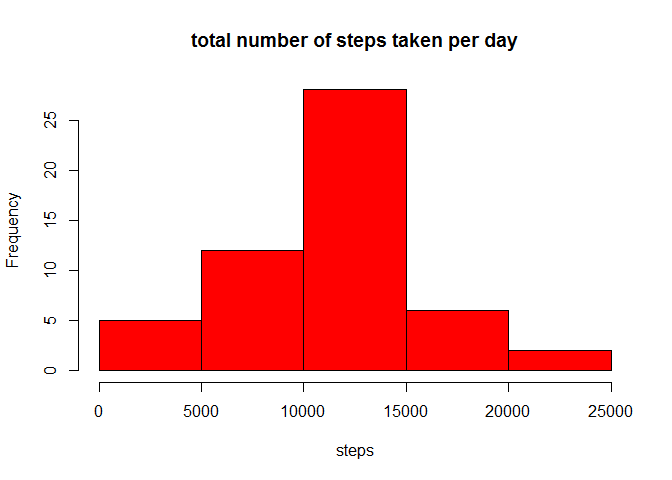
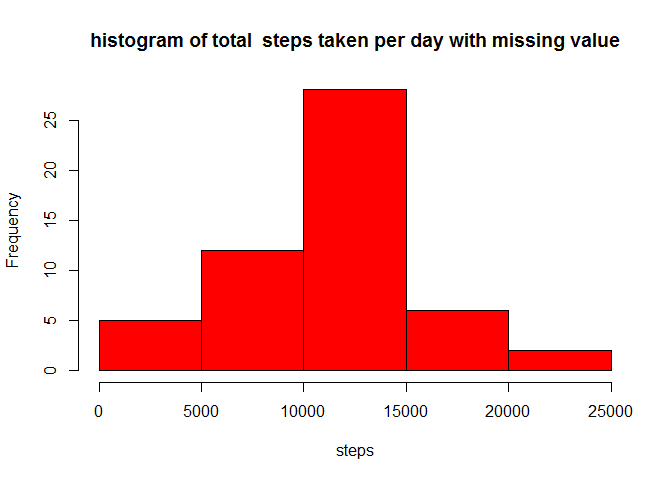
add comment to r code of  Rmd file

Changed region(s): [[0.125, 0.0625, 0.9375, 0.125]]

diff --git a/PA1_template.html b/PA1_template.html
@@ -68,7 +68,7 @@ img {
 <h2>Loading and preprocessing the data</h2>
 <div id="show-any-code-that-is-needed-to-load-the-data-i.e.read.csv" class="section level3">
 <h3>- Show any code that is needed to Load the data (i.e. read.csv())</h3>
-<pre class="r"><code>a=read.csv(&quot;C:\\Users\\user\\Documents\\activity.csv&quot;)</code></pre>
+<pre class="r"><code>a=read.csv(&quot;~/activity.csv&quot;)</code></pre>
 </div>
 </div>
 <div id="what-is-mean-total-number-of-steps-taken-per-day" class="section level2">
@@ -146,8 +146,8 @@ b</code></pre>
 <h2>What is the average daily activity pattern?</h2>
 <div id="make-a-histogram-of-the-total-number-of-steps-taken-each-day" class="section level3">
 <h3>2. Make a histogram of the total number of steps taken each day</h3>
-<pre class="r"><code>hist(b$steps,col=&quot;red&quot;,xlab=&quot;steps&quot;,main=&quot;total number of steps taken per day&quot;)</code></pre>
[1 lines of base64/hex data omitted]
+<pre class="r"><code>hist(b$steps,col=&quot;red&quot;,xlab=&quot;steps&quot;,main=&quot;histogram of total  steps taken per day with missing value&quot;)</code></pre>
[1 lines of base64/hex data omitted]
 </div>
 <div id="calculate-and-report-the-mean-and-median-of-the-total-number-of-steps-taken-per-day" class="section level3">
 <h3>3. Calculate and report the mean and median of the total number of steps taken per day</h3>
@@ -170,14 +170,16 @@ day_median=median(b$steps,na.rm=T)</code></pre>
 <pre class="r"><code>library(reshape2)</code></pre>
 <pre><code>## Warning: package 'reshape2' was built under R version 3.1.2</code></pre>
 <pre class="r"><code>md=melt(a,id.vars=c(&quot;date&quot;,&quot;interval&quot;),na.rm=T)
+## create new dataframe with 2 column -interval and mean steps
 new=dcast(md,interval~variable,mean)
+## make the plot
 plot(new,type=&quot;l&quot;,col=&quot;red&quot;,main=&quot; average steps of 5-minute interval&quot;)</code></pre>
[1 lines of base64/hex data omitted]
 </div>
 </div>
 <div id="imputing-missing-values" class="section level2">
 <h2>Imputing missing values</h2>
-<pre class="r"><code>## nof subset of record contain NA
+<pre class="r"><code>## dataframe nof subset of record contain missing value
 nof=a[is.na(a$steps)==T,]
 number=nrow(nof) ## total records that contain NA</code></pre>
 <div id="the-total-number-of-missing-values-in-the-dataset-is-2304" class="section level3">
@@ -186,9 +188,12 @@ number=nrow(nof) ## total records that contain NA</code></pre>
 <div id="devise-a-strategy-for-filling-in-all-of-the-missing-values-in-the-dataset-using-the-meanmedian-for-that-day-or-the-mean-for-that-5-minute-interval-etc." class="section level3">
 <h3>2. Devise a strategy for filling in all of the missing values in the dataset using the mean/median for that day, or the mean for that 5-minute interval, etc.</h3>
 </div>
+<div id="missing-value-will-filling-with-mean-of-that-5-minute-interval" class="section level3">
+<h3><strong>Missing value, will filling with mean of that 5-minute interval</strong></h3>
+</div>
 <div id="create-a-new-dataset-that-is-equal-to-the-original-dataset-but-with-the-missing-data-filled-in." class="section level3">
 <h3>3. Create a new dataset that is equal to the original dataset but with the missing data filled in.</h3>
-<pre class="r"><code>##let dataframe a add a  interval average steps column
+<pre class="r"><code>##let dataframe a add a 5-minute interval average steps column
 library(dplyr)</code></pre>
 <pre><code>## Warning: package 'dplyr' was built under R version 3.1.3</code></pre>
 <pre><code>## 
@@ -203,35 +208,46 @@ library(dplyr)</code></pre>
 ##     intersect, setdiff, setequal, union</code></pre>
 <pre class="r"><code>a=tbl_df(a)
 new=tbl_df(new)
-extstep=new
+extstep=new 
 for(i in 1:60){extstep=rbind(extstep,new)}
 names(extstep)=c(&quot;interval&quot;,&quot;mean&quot;)
-exta=cbind(a,extstep$mean)
+exta=cbind(a,extstep$mean)## create a dataframe exta=original original dataframe + mean interval column
 names(exta)=c(&quot;steps&quot;,&quot;date&quot;,&quot;interval&quot;,&quot;mstep&quot;)
+## extab- subset of missing value records
 extab=filter(exta,is.na(steps))
+##replace missing steps with mean
 extab=mutate(extab,steps=mstep)
 extab=select(extab,steps,date,interval)
+## isa - subset of complete records
 isa=filter(a,!is.na(steps))
+##rbind two subset to complete the whole data
 data=arrange(rbind(isa,extab),date,interval)
+##show the results of replacement
 head(data)</code></pre>
 </div>
 <div id="make-a-histogram-of-the-total-number-of-steps-taken-each-day-and-calculate-and-report-the-mean-and-median-total-number-of-steps-taken-per-day." class="section level3">
 <h3>4. Make a histogram of the total number of steps taken each day and Calculate and report the mean and median total number of steps taken per day.</h3>
-<pre class="r"><code>data_mean=group_by(data,date)
+<pre class="r"><code>##grouping data by date
+data_mean=group_by(data,date)
+##sum up steps by date
 sumsteps=summarise(data_mean,sum(steps))
 names(sumsteps)=c(&quot;date&quot;,&quot;total&quot;)
-hist(sumsteps$total)</code></pre>
[1 lines of base64/hex data omitted]
-<pre class="r"><code>filled_mean=mean(sumsteps$total)
-filled_mean=format(filled_mean,scipen=100)
+##plot histgram
+hist(sumsteps$total,main = &quot;histogram of Total steps taken per day filling missing value with interval mean&quot;,xlab = &quot;steps&quot;)</code></pre>
[1 lines of base64/hex data omitted]
+<pre class="r"><code>##calculate with mean and median 
+filled_mean=mean(sumsteps$total)
+## formatting the mean and median not to show as scientific format
+
+filled_mean=format(filled_mean,scipen=100,digit=5)
 filled_median=median(sumsteps$total)
-filled_median=format(filled_median,scipen=100)</code></pre>
+filled_median=format(filled_median,scipen=100,digits = 5)</code></pre>
 </div>
-<div id="the-mean-total-number-of-steps-taken-per-day-is-10766.19" class="section level3">
-<h3>the mean total number of steps taken per day is 10766.19</h3>
+<div id="the-mean-total-number-of-steps-taken-per-day-is-10766" class="section level3">
+<h3>the mean total number of steps taken per day is 10766</h3>
 </div>
-<div id="the-median-total-number-of-steps-taken-per-day-is-10766.19" class="section level3">
-<h3>the median total number of steps taken per day is 10766.19</h3>
+<div id="the-median-total-number-of-steps-taken-per-day-is-10766" class="section level3">
+<h3>the median total number of steps taken per day is 10766</h3>
 </div>
 </div>
 <div id="are-there-differences-in-activity-patterns-between-weekdays-and-weekends" class="section level2">

diff --git a/PA1_template.md b/PA1_template.md
@@ -7,7 +7,7 @@
 
 
 ```r
-a=read.csv("C:\\Users\\user\\Documents\\activity.csv")
+a=read.csv("~/activity.csv")
 ```
 
 
@@ -91,7 +91,7 @@ b
 ### 2. Make a histogram of the total number of steps taken each day
 
 ```r
-hist(b$steps,col="red",xlab="steps",main="total number of steps taken per day")
+hist(b$steps,col="red",xlab="steps",main="histogram of total  steps taken per day with missing value")
 ```
 
 ![](PA1_template_files/figure-html/unnamed-chunk-3-1.png) 
@@ -123,7 +123,9 @@ library(reshape2)
 
 ```r
 md=melt(a,id.vars=c("date","interval"),na.rm=T)
+## create new dataframe with 2 column -interval and mean steps
 new=dcast(md,interval~variable,mean)
+## make the plot
 plot(new,type="l",col="red",main=" average steps of 5-minute interval")
 ```
 
@@ -135,7 +137,7 @@ plot(new,type="l",col="red",main=" average steps of 5-minute interval")
 
 
 ```r
-## nof subset of record contain NA
+## dataframe nof subset of record contain missing value
 nof=a[is.na(a$steps)==T,]
 number=nrow(nof) ## total records that contain NA
 ```
@@ -143,10 +145,13 @@ number=nrow(nof) ## total records that contain NA
 ### 1.The total number of missing values in the dataset is 2304 
 
 ### 2. Devise a strategy for filling in all of the missing values in the dataset using the mean/median for that day, or the mean for that 5-minute interval, etc.
+
+### **Missing value, will filling with  mean of that 5-minute interval**
+
 ### 3. Create a new dataset that is equal to the original dataset but with the missing data filled in.
 
 ```r
-##let dataframe a add a  interval average steps column
+##let dataframe a add a 5-minute interval average steps column
 library(dplyr)
 ```
 
@@ -170,39 +175,50 @@ library(dplyr)
 ```r
 a=tbl_df(a)
 new=tbl_df(new)
-extstep=new
+extstep=new 
 for(i in 1:60){extstep=rbind(extstep,new)}
 names(extstep)=c("interval","mean")
-exta=cbind(a,extstep$mean)
+exta=cbind(a,extstep$mean)## create a dataframe exta=original original dataframe + mean interval column
 names(exta)=c("steps","date","interval","mstep")
+## extab- subset of missing value records
 extab=filter(exta,is.na(steps))
+##replace missing steps with mean
 extab=mutate(extab,steps=mstep)
 extab=select(extab,steps,date,interval)
+## isa - subset of complete records
 isa=filter(a,!is.na(steps))
+##rbind two subset to complete the whole data
 data=arrange(rbind(isa,extab),date,interval)
+##show the results of replacement
 head(data)
 ```
 ### 4. Make a histogram of the total number of steps taken each day and Calculate and report the mean and median total number of steps taken per day.
 
 
 ```r
+##grouping data by date
 data_mean=group_by(data,date)
+##sum up steps by date
 sumsteps=summarise(data_mean,sum(steps))
 names(sumsteps)=c("date","total")
-hist(sumsteps$total)
+##plot histgram
+hist(sumsteps$total,main = "histogram of Total steps taken per day filling missing value with interval mean",xlab = "steps")
 ```
 
 ![](PA1_template_files/figure-html/unnamed-chunk-8-1.png) 
 
 ```r
+##calculate with mean and median 
 filled_mean=mean(sumsteps$total)
-filled_mean=format(filled_mean,scipen=100)
-filled_median=median(sumsteps$total)
-filled_median=format(filled_median,scipen=100)
-```
-### the mean  total number of steps taken per day is 10766.19
-### the median total number of steps taken per day is 10766.19
+## formatting the mean and median not to show as scientific format
 
+filled_mean=format(filled_mean,scipen=100,digit=5)
+filled_median=median(sumsteps$total)
+filled_median=format(filled_median,scipen=100,digits = 5)
+```
+### the mean  total number of steps taken per day is 10766
+
+### the median total number of steps taken per day is 10766
 
 
 ## Are there differences in activity patterns between weekdays and weekends?
